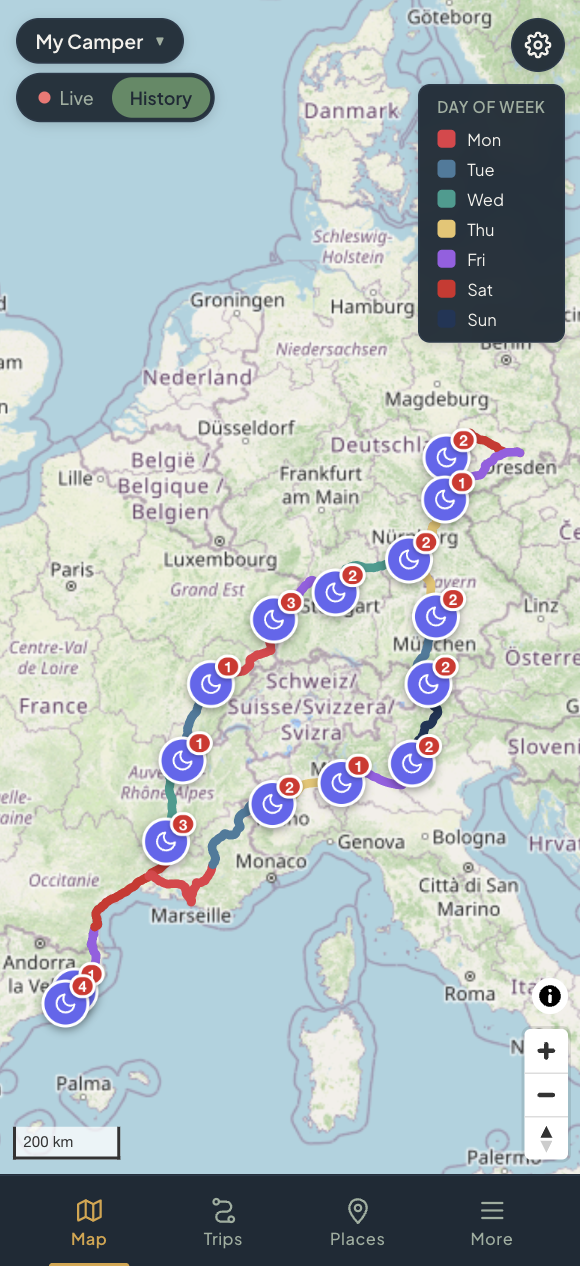
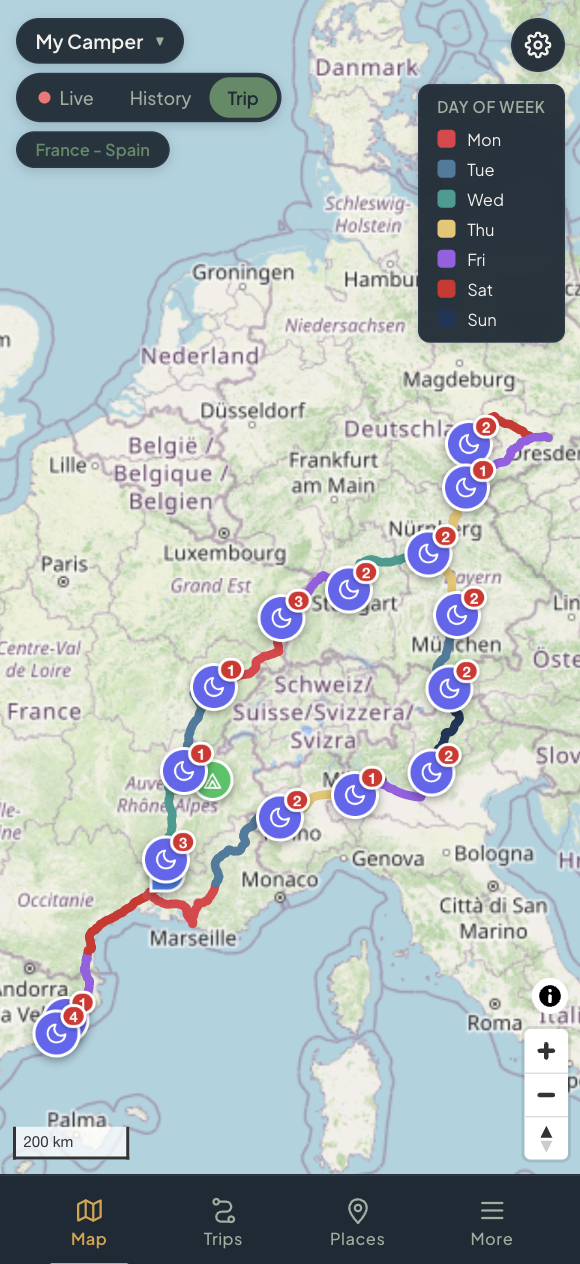
feat: add trip mode button to map controls, collapse trip sections by default

diff --git a/apps/web/src/App.tsx b/apps/web/src/App.tsx
@@ -156,6 +156,8 @@ export default function App() {
     [userTrips, selectedTripId],
   );
 
+  const activeSegment = selectedTripId ? "trip" : mode;
+
   // Places shown in the side list: only the trip filter applies. Hidden tags
   // still appear so the user can un-hide them.
   const listPlaces = useMemo(() => {
@@ -470,7 +472,6 @@ export default function App() {
             onOpen={async (trip) => {
               try {
                 setSelectedTripId(trip.id);
-                setExpandedTripId(trip.id);
                 setPlacesFilterByTrip(true);
                 setMode("history");
                 setRange({
@@ -668,12 +669,16 @@ export default function App() {
             <div className="map-mode-buttons">
               <button
                 type="button"
-                className={`map-mode-btn live ${mode === "live" ? "active" : ""}`}
+                className={`map-mode-btn live ${activeSegment === "live" ? "active" : ""}`}
                 onClick={async () => {
                   if (mode !== "live") {
                     setMode("live");
                   } else {
                     map.current?.openDevicePopup();
+                  }
+                  if (tab === "trips") {
+                    setTab("map");
+                    setSidebarOpen(false);
                   }
                 }}
               >
@@ -689,14 +694,33 @@ export default function App() {
               </button>
               <button
                 type="button"
-                className={`map-mode-btn historic ${mode === "history" ? "active" : ""}`}
+                className={`map-mode-btn historic ${activeSegment === "history" ? "active" : ""}`}
                 onClick={() => {
                   setDateRangeModalOpen(true);
+                  if (tab === "trips") {
+                    setTab("map");
+                    setSidebarOpen(false);
+                  }
                 }}
               >
                 {t("devices.history")}
               </button>
+              <button
+                type="button"
+                className={`map-mode-btn historic ${activeSegment === "trip" ? "active" : ""}`}
+                onClick={() => {
+                  setTab("trips");
+                  setSidebarOpen(true);
+                }}
+              >
+                {t("trip.title")}
+              </button>
             </div>
+            {selectedTrip && (
+              <div className="map-active-trip-name">
+                {selectedTrip.name}
+              </div>
+            )}
           </div>
         )}
 

diff --git a/apps/web/src/styles.css b/apps/web/src/styles.css
@@ -510,6 +510,23 @@ select:focus {
   align-items: flex-start;
 }
 
+.map-active-trip-name {
+  background: color-mix(in srgb, var(--bg-1) 95%, transparent);
+  border: 1px solid var(--line);
+  padding: 4px 12px;
+  border-radius: 999px;
+  font-size: 11px;
+  font-weight: 600;
+  color: var(--accent);
+  backdrop-filter: blur(6px);
+  box-shadow: 0 2px 8px rgba(0, 0, 0, 0.15);
+  max-width: 200px;
+  word-wrap: break-word;
+  overflow-wrap: break-word;
+  white-space: normal;
+  line-height: 1.3;
+}
+
 .map-device-badge {
   background: color-mix(in srgb, var(--bg-1) 95%, transparent);
   border: 1px solid var(--line);
@@ -1297,7 +1314,7 @@ button.ghost:hover {
   display: inline-block;
   transition: transform 0.15s ease;
   color: var(--muted);
-  font-size: 14px;
+  font-size: 20px;
 }
 .trip-item.open .trip-chevron-btn .chevron {
   transform: rotate(90deg);

diff --git a/apps/web/src/panels/TripsPanel.tsx b/apps/web/src/panels/TripsPanel.tsx
@@ -168,7 +168,7 @@ function TripPlaces({
   onToggleFilterByTrip: () => void;
   onFlyToPlace: (p: Place) => void;
 }) {
-  const [open, setOpen] = useState(true);
+  const [open, setOpen] = useState(false);
 
   return (
     <div className="trip-places">
@@ -230,7 +230,7 @@ function TripShareLinks({
   onCopyShare: (linkId: string) => void;
 }) {
   const { t } = useTranslation();
-  const [open, setOpen] = useState(true);
+  const [open, setOpen] = useState(false);
 
   return (
     <div className="trip-places" style={{ marginTop: "12px", marginBottom: "12px" }}>
